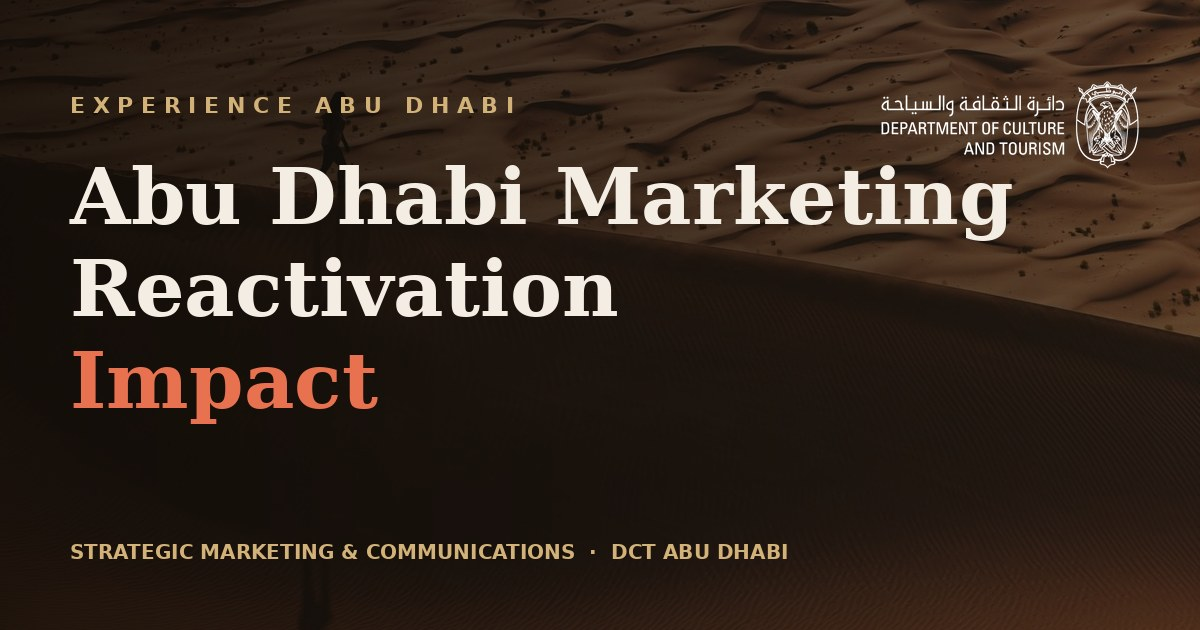
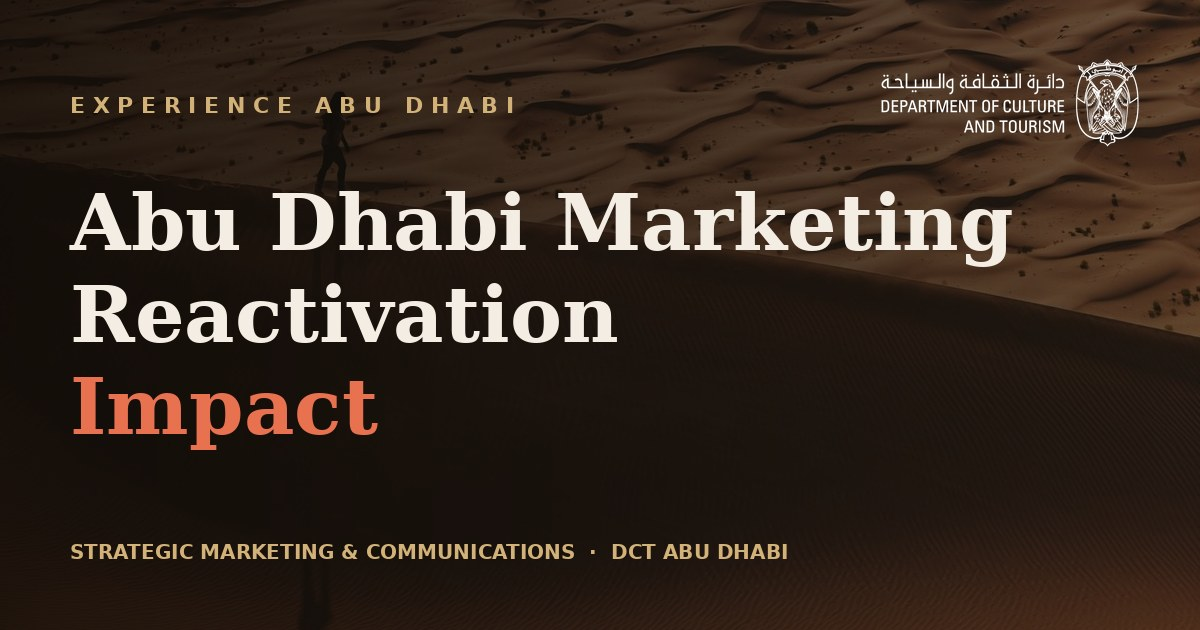
v4

Changed region(s): [[0.0617, 0.2413, 0.5242, 0.7238], [0.4625, 0.2413, 0.8633, 0.4222], [0.7092, 0.0905, 0.9558, 0.2714]]

diff --git a/index.html b/index.html
@@ -101,7 +101,9 @@ h2.title .hl{color:var(--coral)}
 .src b{color:var(--gold2);font-weight:700;letter-spacing:.06em}
 
 .tabs{display:flex;gap:8px;margin-bottom:18px;flex-wrap:wrap}
-.tab{font-size:11px;font-weight:700;letter-spacing:.14em;text-transform:uppercase;padding:7px 13px;border-radius:999px;border:1px solid var(--line);color:var(--muted)}
+.tab{font-size:11px;font-weight:700;letter-spacing:.14em;text-transform:uppercase;padding:7px 13px;border-radius:999px;border:1px solid var(--line);color:var(--muted);cursor:pointer;text-decoration:none;transition:.2s var(--ease)}
+.tab:hover{border-color:var(--gold)}
+.sec{scroll-margin-top:58px}
 .tab.on{background:var(--green);border-color:var(--green);color:#08120c}
 html[data-theme="light"] .tab.on{color:#fff}
 
@@ -170,7 +172,8 @@ html[data-theme="light"] .track{background:rgba(0,0,0,.10)}
 .cmphead span:not(:first-child),.cmprow .v{width:78px;text-align:right}
 .cmprow .mkt{display:flex;align-items:center;gap:10px;font-weight:600}
 .cmprow .fl{font-size:20px;line-height:1}
-.cmprow .v{font-family:var(--serif);font-weight:700;font-size:18px;font-variant-numeric:tabular-nums}
+.cmprow .cnum{font-family:var(--serif);font-weight:700;font-size:18px;font-variant-numeric:tabular-nums}
+.cmprow .cnum.win{background:rgba(75,189,139,.18);border:1px solid rgba(75,189,139,.55);border-radius:8px;padding:3px 9px;display:inline-block}
 .pos{color:var(--green)} .neg{color:var(--coral)}
 .legend{display:flex;gap:16px;margin:2px 0 6px;font-size:12px;color:var(--muted)}
 .legend b{color:var(--text)}
@@ -207,12 +210,13 @@ html[data-theme="light"] .track{background:rgba(0,0,0,.10)}
 .caseflag{font-size:clamp(30px,9vw,48px);line-height:1;margin:0 0 8px;filter:drop-shadow(0 5px 10px rgba(0,0,0,.4))}
 
 /* media mosaic + carousel */
-.scroller{display:flex;gap:12px;overflow-x:auto;scroll-snap-type:x mandatory;touch-action:pan-x;overscroll-behavior-x:contain;padding-bottom:10px;margin:0 -4px;
+.scroller{display:flex;gap:12px;overflow-x:auto;scroll-snap-type:x mandatory;overscroll-behavior-x:contain;padding-bottom:10px;margin:0 -4px;
  -webkit-overflow-scrolling:touch;scrollbar-width:none}
 .scroller::-webkit-scrollbar{display:none}
-.scroller .m{flex:0 0 82%;scroll-snap-align:start;border-radius:16px;overflow:hidden;aspect-ratio:9/13;background:var(--card2);position:relative;border:1px solid var(--line);touch-action:pan-x}
+.scroller .m{flex:0 0 82%;scroll-snap-align:start;border-radius:16px;overflow:hidden;aspect-ratio:9/13;background:var(--card2);position:relative;border:1px solid var(--line)}
+.scroller .m.reveal{transition:opacity .3s var(--ease),transform .3s var(--ease);transition-delay:0s!important}
 .scroller .m.wide{aspect-ratio:16/10}
-.scroller .m video,.scroller .m img{width:100%;height:100%;object-fit:cover}
+.scroller .m video,.scroller .m img{width:100%;height:100%;object-fit:cover;pointer-events:none;user-select:none;-webkit-user-drag:none}
 .swipehint{font-size:11.5px;color:var(--muted);letter-spacing:.05em;margin-top:2px;display:flex;align-items:center;gap:6px}
 .flagbadge{position:absolute;top:9px;right:9px;width:36px;height:36px;border-radius:50%;display:grid;place-items:center;font-size:21px;line-height:1;background:rgba(255,255,255,.16);backdrop-filter:blur(6px);border:1.5px solid rgba(255,255,255,.72);box-shadow:0 3px 10px rgba(0,0,0,.45);z-index:3;overflow:hidden}
 .flagbadge .gicon{width:15px;height:15px;color:#fff}
@@ -345,7 +349,7 @@ html[data-theme="light"] .logostrip img{opacity:.95;filter:brightness(0) invert(
  <div class="grid"><div class="card reveal" style="padding:16px 18px"><div style="display:flex;align-items:center;gap:12px"><span style="color:var(--coral);width:26px;height:26px;display:inline-flex"><svg class="ic" viewBox="0 0 24 24" fill="none" stroke="currentColor" stroke-width="1.7" stroke-linecap="round" stroke-linejoin="round"><path d="M3 11v2a1 1 0 001 1h2l3 4V6L6 10H4a1 1 0 00-1 1z"/><path d="M13 7s3 1 3 5-3 5-3 5"/></svg></span><h3 style="margin:0">Marketing Exposure</h3></div><ul style="margin:10px 0 0 6px;padding-left:16px;color:var(--sub);font-size:14px;line-height:1.6"><li>Digital impressions & views</li><li>OOH impressions</li></ul></div><div style="text-align:center;color:var(--gold);font-size:20px;margin:2px 0 -4px">↓</div><div class="card reveal" style="padding:16px 18px"><div style="display:flex;align-items:center;gap:12px"><span style="color:var(--coral);width:26px;height:26px;display:inline-flex"><svg class="ic" viewBox="0 0 24 24" fill="none" stroke="currentColor" stroke-width="1.7" stroke-linecap="round" stroke-linejoin="round"><circle cx="11" cy="11" r="7"/><path d="M21 21l-4.3-4.3"/></svg></span><h3 style="margin:0">Search</h3></div><ul style="margin:10px 0 0 6px;padding-left:16px;color:var(--sub);font-size:14px;line-height:1.6"><li>Google</li><li>Baidu</li><li>Yandex</li></ul></div><div style="text-align:center;color:var(--gold);font-size:20px;margin:2px 0 -4px">↓</div><div class="card reveal" style="padding:16px 18px"><div style="display:flex;align-items:center;gap:12px"><span style="color:var(--coral);width:26px;height:26px;display:inline-flex"><svg class="ic" viewBox="0 0 24 24" fill="none" stroke="currentColor" stroke-width="1.7" stroke-linecap="round" stroke-linejoin="round"><path d="M3 12c2-4 4-4 6 0s4 4 6 0 4-4 6 0"/><path d="M3 17c2-4 4-4 6 0s4 4 6 0 4-4 6 0"/></svg></span><h3 style="margin:0">Organic Conversation</h3></div><ul style="margin:10px 0 0 6px;padding-left:16px;color:var(--sub);font-size:14px;line-height:1.6"><li>Volume of mentions</li><li>Positive / negative sentiment</li></ul></div><div style="text-align:center;color:var(--gold);font-size:20px;margin:2px 0 -4px">↓</div><div class="card reveal" style="padding:16px 18px"><div style="display:flex;align-items:center;gap:12px"><span style="color:var(--coral);width:26px;height:26px;display:inline-flex"><svg class="ic" viewBox="0 0 24 24" fill="none" stroke="currentColor" stroke-width="1.7" stroke-linecap="round" stroke-linejoin="round"><circle cx="12" cy="12" r="9"/><path d="M7 9h4M9 9v6M13 15V9l2 3 2-3v6"/></svg></span><h3 style="margin:0">Brand Building</h3></div><ul style="margin:10px 0 0 6px;padding-left:16px;color:var(--sub);font-size:14px;line-height:1.6"><li>Brand Health Tracker: Awareness, Consideration, Intent</li></ul></div><div style="text-align:center;color:var(--gold);font-size:20px;margin:2px 0 -4px">↓</div><div class="card reveal" style="padding:16px 18px"><div style="display:flex;align-items:center;gap:12px"><span style="color:var(--coral);width:26px;height:26px;display:inline-flex"><svg class="ic" viewBox="0 0 24 24" fill="none" stroke="currentColor" stroke-width="1.7" stroke-linecap="round" stroke-linejoin="round"><path d="M4 4l7 16 2.5-6.5L20 11z"/></svg></span><h3 style="margin:0">Demand Created</h3></div><ul style="margin:10px 0 0 6px;padding-left:16px;color:var(--sub);font-size:14px;line-height:1.6"><li>Clicks to the website</li><li>Flight searches on Skyscanner</li></ul></div></div>
  <div class="reveal" style="transition-delay:0ms"><p class="src"><b>Source</b> Google · Baidu · Weibo search data</p></div>
 </div></section><div class="sep"><i></i></div><section class="sec " id="domestic"><div class="inner">
- <div class="reveal" style="transition-delay:0ms"><div class="tabs"><span class="tab on">Searches</span><span class="tab">Sentiment</span><span class="tab">Brand</span></div></div>
+ <div class="reveal" style="transition-delay:0ms"><div class="tabs"><a class="tab on" href="#domestic">Searches</a><a class="tab" href="#sentiment">Sentiment</a><a class="tab" href="#brand">Brand</a></div></div>
  <div class="reveal" style="transition-delay:0ms"><div class="eyebrow">Domestic destination searches</div></div>
  <div class="reveal" style="transition-delay:0ms"><h2 class="title"><span class="hl">Domestically</span>, since March, Abu Dhabi grew its share of destination searches.</h2></div>
  <div class="reveal" style="transition-delay:0ms"><p class="lead">Abu Dhabi’s share of UAE destination search rose while Dubai’s fell over the same period.</p></div>
@@ -356,28 +360,28 @@ html[data-theme="light"] .logostrip img{opacity:.95;filter:brightness(0) invert(
  </div>
  <div class="reveal" style="transition-delay:0ms"><p class="src"><b>Source</b> DCT Uplift Analysis — weekly query share, UAE origin (Google), indexed to 29 Mar</p></div>
 </div></section><div class="sep"><i></i></div><section class="sec " id="global"><div class="inner">
-     <div class="reveal" style="transition-delay:0ms"><div class="tabs"><span class="tab on">Searches</span><span class="tab">Sentiment</span><span class="tab">Brand</span></div></div>
+     <div class="reveal" style="transition-delay:0ms"><div class="tabs"><a class="tab on" href="#domestic">Searches</a><a class="tab" href="#sentiment">Sentiment</a><a class="tab" href="#brand">Brand</a></div></div>
      <div class="reveal" style="transition-delay:0ms"><div class="eyebrow">Global destination searches</div></div>
      <div class="reveal" style="transition-delay:0ms"><h2 class="title">Global searches fell YoY — but Abu Dhabi <span class="hl">protected its volume</span> better than Dubai, especially in CN, IN &amp; RU.</h2></div>
      <div class="reveal" style="transition-delay:0ms"><p class="lead">Searches for both destinations are down year-on-year, yet Abu Dhabi held on more effectively, with strong growth in China and Russia by June 2026.</p></div>
-     <div class="cmp"><div class="reveal" style="transition-delay:0ms"><div class="cmphead"><span>Market</span><span>Abu Dhabi</span><span>Dubai</span></div></div><div class="cmprow reveal"><span class="mkt"><span class="fl">🇬🇧</span>UK</span><span class="v neg">−55%</span><span class="v neg">−59%</span></div><div class="cmprow reveal"><span class="mkt"><span class="fl">🇺🇸</span>US</span><span class="v neg">−47%</span><span class="v neg">−53%</span></div><div class="cmprow reveal"><span class="mkt"><span class="fl">🇩🇪</span>Germany</span><span class="v neg">−57%</span><span class="v neg">−62%</span></div><div class="cmprow reveal"><span class="mkt"><span class="fl">🇫🇷</span>France</span><span class="v neg">−47%</span><span class="v neg">−58%</span></div><div class="cmprow reveal"><span class="mkt"><span class="fl">🇮🇳</span>India</span><span class="v neg">−14%</span><span class="v neg">−33%</span></div><div class="cmprow reveal"><span class="mkt"><span class="fl">🇨🇳</span>China</span><span class="v pos">+43%</span><span class="v pos">+65%</span></div><div class="cmprow reveal"><span class="mkt"><span class="fl">🇷🇺</span>Russia</span><span class="v pos">+36%</span><span class="v pos">+26%</span></div></div>
+     <div class="cmp"><div class="reveal" style="transition-delay:0ms"><div class="cmphead"><span>Market</span><span>Abu Dhabi</span><span>Dubai</span></div></div><div class="cmprow reveal"><span class="mkt"><span class="fl">🇬🇧</span>UK</span><span class="v"><span class="cnum neg win">−55%</span></span><span class="v"><span class="cnum neg">−59%</span></span></div><div class="cmprow reveal"><span class="mkt"><span class="fl">🇺🇸</span>US</span><span class="v"><span class="cnum neg win">−47%</span></span><span class="v"><span class="cnum neg">−53%</span></span></div><div class="cmprow reveal"><span class="mkt"><span class="fl">🇩🇪</span>Germany</span><span class="v"><span class="cnum neg win">−57%</span></span><span class="v"><span class="cnum neg">−62%</span></span></div><div class="cmprow reveal"><span class="mkt"><span class="fl">🇫🇷</span>France</span><span class="v"><span class="cnum neg win">−47%</span></span><span class="v"><span class="cnum neg">−58%</span></span></div><div class="cmprow reveal"><span class="mkt"><span class="fl">🇮🇳</span>India</span><span class="v"><span class="cnum neg win">−14%</span></span><span class="v"><span class="cnum neg">−33%</span></span></div><div class="cmprow reveal"><span class="mkt"><span class="fl">🇨🇳</span>China</span><span class="v"><span class="cnum pos">+43%</span></span><span class="v"><span class="cnum pos win">+65%</span></span></div><div class="cmprow reveal"><span class="mkt"><span class="fl">🇷🇺</span>Russia</span><span class="v"><span class="cnum pos win">+36%</span></span><span class="v"><span class="cnum pos">+26%</span></span></div></div>
      <div class="reveal" style="transition-delay:0ms"><p class="src"><b>Source</b> DCT Uplift Analysis — YoY queries vs Dubai (Google) · Baidu · Yandex</p></div>
     </div></section><div class="sep"><i></i></div><section class="sec " id="sentiment"><div class="inner">
-     <div class="reveal" style="transition-delay:0ms"><div class="tabs"><span class="tab">Searches</span><span class="tab on">Sentiment</span><span class="tab">Brand</span></div></div>
+     <div class="reveal" style="transition-delay:0ms"><div class="tabs"><a class="tab" href="#domestic">Searches</a><a class="tab on" href="#sentiment">Sentiment</a><a class="tab" href="#brand">Brand</a></div></div>
      <div class="reveal" style="transition-delay:0ms"><div class="eyebrow">Global destination searches</div></div>
-     <div class="reveal" style="transition-delay:0ms"><h2 class="title"><span class="hl">Positive sentiment</span> grew across UK, IN, RU &amp; DE — with room to improve in US and CH.</h2></div>
-     <div class="reveal" style="transition-delay:0ms"><p class="lead">Year-on-year change in positive sentiment volume across key markets.</p></div>
-     <div class="cmp"><div class="reveal" style="transition-delay:0ms"><div class="cmphead"><span>Market</span><span>Abu Dhabi</span><span>Dubai</span></div></div><div class="cmprow reveal"><span class="mkt"><span class="fl">🇬🇧</span>UK</span><span class="v pos">+21%</span><span class="v neg">−59%</span></div><div class="cmprow reveal"><span class="mkt"><span class="fl">🇺🇸</span>US</span><span class="v neg">−53%</span><span class="v pos">+78%</span></div><div class="cmprow reveal"><span class="mkt"><span class="fl">🇩🇪</span>Germany</span><span class="v pos">+225%</span><span class="v pos">+268%</span></div><div class="cmprow reveal"><span class="mkt"><span class="fl">🇮🇳</span>India</span><span class="v pos">+43%</span><span class="v neg">−1%</span></div><div class="cmprow reveal"><span class="mkt"><span class="fl">🇨🇳</span>China</span><span class="v neg">−41%</span><span class="v neg">−14%</span></div><div class="cmprow reveal"><span class="mkt"><span class="fl">🇷🇺</span>Russia</span><span class="v pos">+25%</span><span class="v pos">+21%</span></div></div>
-     <div class="reveal" style="transition-delay:0ms"><p class="src"><b>Source</b> Sprinklr — YoY positive sentiment volume by market</p></div>
+     <div class="reveal" style="transition-delay:0ms"><h2 class="title"><span class="hl">Positive sentiment</span> has dropped significantly across all destinations in the region.</h2></div>
+     <div class="reveal" style="transition-delay:0ms"><p class="lead">Year-on-year change in share of positive sentiment volume across key markets.</p></div>
+     <div class="cmp"><div class="reveal" style="transition-delay:0ms"><div class="cmphead"><span>Market</span><span>Abu Dhabi</span><span>Dubai</span></div></div><div class="cmprow reveal"><span class="mkt"><span class="fl">🇬🇧</span>UK</span><span class="v"><span class="cnum neg win">−10%</span></span><span class="v"><span class="cnum neg">−26%</span></span></div><div class="cmprow reveal"><span class="mkt"><span class="fl">🇺🇸</span>US</span><span class="v"><span class="cnum neg win">−5%</span></span><span class="v"><span class="cnum neg">−7%</span></span></div><div class="cmprow reveal"><span class="mkt"><span class="fl">🇩🇪</span>Germany</span><span class="v"><span class="cnum neg">−14%</span></span><span class="v"><span class="cnum neg win">−3%</span></span></div><div class="cmprow reveal"><span class="mkt"><span class="fl">🇮🇳</span>India</span><span class="v"><span class="cnum neg win">−27%</span></span><span class="v"><span class="cnum neg">−35%</span></span></div><div class="cmprow reveal"><span class="mkt"><span class="fl">🇨🇳</span>China</span><span class="v"><span class="cnum neg">−53%</span></span><span class="v"><span class="cnum neg win">−48%</span></span></div><div class="cmprow reveal"><span class="mkt"><span class="fl">🇷🇺</span>Russia</span><span class="v"><span class="cnum neg">−57%</span></span><span class="v"><span class="cnum neg win">−10%</span></span></div></div>
+     <div class="reveal" style="transition-delay:0ms"><p class="src"><b>Source</b> Sprinklr — YoY share of positive sentiment volume by market</p></div>
     </div></section><div class="sep"><i></i></div><section class="sec " id="brand"><div class="inner">
- <div class="reveal" style="transition-delay:0ms"><div class="tabs"><span class="tab">Searches</span><span class="tab">Sentiment</span><span class="tab on">Brand</span></div></div>
+ <div class="reveal" style="transition-delay:0ms"><div class="tabs"><a class="tab" href="#domestic">Searches</a><a class="tab" href="#sentiment">Sentiment</a><a class="tab on" href="#brand">Brand</a></div></div>
  <div class="reveal" style="transition-delay:0ms"><div class="eyebrow">Brand health metrics</div></div>
  <div class="reveal" style="transition-delay:0ms"><h2 class="title">Both are recovering consideration and intent — Abu Dhabi is doing so <span class="hl">faster</span>.</h2></div>
  <div class="reveal" style="transition-delay:0ms"><p class="lead">Early reactivation ignited interest across key markets, with Abu Dhabi posting stronger recovery in consideration (3-year desire) and intent (12-month desire) than Dubai.</p></div>
  <div class="grid g2"><div class="card reveal" style="padding:16px"><h3>Consideration recovery</h3><div class="cap">Q1’26 → Q2’26 change (pp)</div><div class="cmp"><div class="cmphead"><span>Market</span><span>Abu Dhabi</span><span>Dubai</span></div><div class="cmprow reveal"><span class="mkt"><span class="fl">🇫🇷</span>France</span><span class="v pos">+3.0pp</span><span class="v pos">+3.9pp</span></div><div class="cmprow reveal"><span class="mkt"><span class="fl">🇨🇳</span>China</span><span class="v pos">+1.8pp</span><span class="v pos">+0.5pp</span></div><div class="cmprow reveal"><span class="mkt"><span class="fl">🇬🇧</span>UK</span><span class="v pos">+1.6pp</span><span class="v pos">+0.3pp</span></div><div class="cmprow reveal"><span class="mkt"><span class="fl">🇮🇳</span>India</span><span class="v pos">+1.4pp</span><span class="v pos">+0.4pp</span></div><div class="cmprow reveal"><span class="mkt"><span class="fl">🇩🇪</span>Germany</span><span class="v pos">+2.7pp</span><span class="v neg">−3.6pp</span></div><div class="cmprow reveal"><span class="mkt"><span class="fl">🇷🇺</span>Russia</span><span class="v pos">+0.6pp</span><span class="v neg">−0.5pp</span></div><div class="cmprow reveal"><span class="mkt"><span class="fl">🇺🇸</span>US</span><span class="v pos">+0.2pp</span><span class="v pos">+0.5pp</span></div></div></div><div class="card reveal" style="padding:16px"><h3>Intent recovery</h3><div class="cap">Q1’26 → Q2’26 change (pp)</div><div class="cmp"><div class="cmphead"><span>Market</span><span>Abu Dhabi</span><span>Dubai</span></div><div class="cmprow reveal"><span class="mkt"><span class="fl">🇫🇷</span>France</span><span class="v pos">+0.7pp</span><span class="v pos">+2.3pp</span></div><div class="cmprow reveal"><span class="mkt"><span class="fl">🇨🇳</span>China</span><span class="v pos">+3.5pp</span><span class="v pos">+3.1pp</span></div><div class="cmprow reveal"><span class="mkt"><span class="fl">🇬🇧</span>UK</span><span class="v pos">+3.4pp</span><span class="v pos">+2.3pp</span></div><div class="cmprow reveal"><span class="mkt"><span class="fl">🇮🇳</span>India</span><span class="v pos">+1.3pp</span><span class="v pos">+1.3pp</span></div><div class="cmprow reveal"><span class="mkt"><span class="fl">🇩🇪</span>Germany</span><span class="v pos">+3.5pp</span><span class="v neg">−5.2pp</span></div><div class="cmprow reveal"><span class="mkt"><span class="fl">🇷🇺</span>Russia</span><span class="v pos">+1.3pp</span><span class="v pos">+1.8pp</span></div><div class="cmprow reveal"><span class="mkt"><span class="fl">🇺🇸</span>US</span><span class="v pos">+2.6pp</span><span class="v pos">+0.8pp</span></div></div></div></div>
  <div class="reveal" style="transition-delay:0ms"><p class="src"><b>Source</b> DCT Abu Dhabi Brand Health Tracker — Tier-1, Q1–Q2 2026 actuals</p></div>
 </div></section><div class="sep"><i></i></div><section class="sec " id="spend"><div class="inner">
- <div class="reveal" style="transition-delay:0ms"><div class="tabs"><span class="tab">Searches</span><span class="tab">Sentiment</span><span class="tab on">Brand</span></div></div>
+ <div class="reveal" style="transition-delay:0ms"><div class="tabs"><a class="tab" href="#domestic">Searches</a><a class="tab" href="#sentiment">Sentiment</a><a class="tab on" href="#brand">Brand</a></div></div>
  <div class="reveal" style="transition-delay:0ms"><div class="eyebrow">Brand health metrics</div></div>
  <div class="reveal" style="transition-delay:0ms"><h2 class="title">Advertising spend has <span class="hl">supported</span> the recovery in brand health.</h2></div>
  <div class="reveal" style="transition-delay:0ms"><p class="lead">Comparing brand-health recovery against media spend shows a strong positive relationship between investment and metric growth.</p></div>
